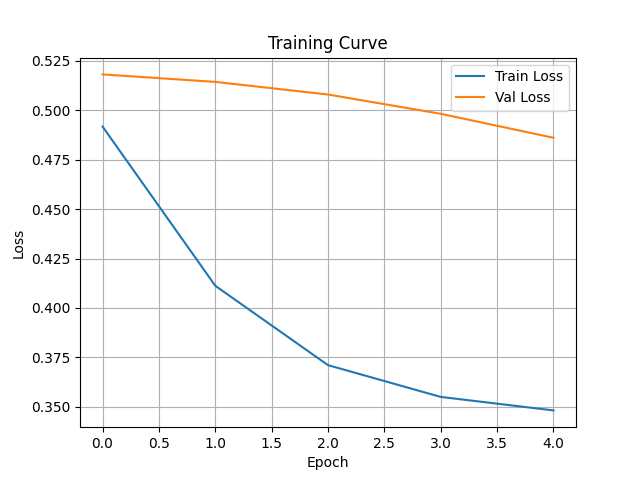
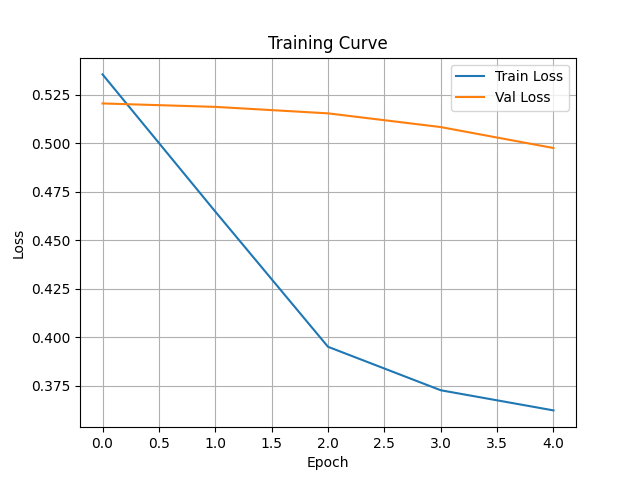
improving sensitivity

diff --git a/train_unetx.py b/train_unetx.py
@@ -11,7 +11,8 @@ from modules.evaluate_unetx import evaluate_full_metrics
 
 # Setup
 device = torch.device("cuda" if torch.cuda.is_available() else "cpu")
-dataset = DicomDataset('data/external_dataset/images', 'data/external_dataset/masks')
+dataset = DicomDataset('dataset/nonannotated/images', 'dataset/annotated/images')
+
 train_len = int(0.8 * len(dataset))
 train_ds, val_ds = random_split(dataset, [train_len, len(dataset) - train_len])
 train_loader = DataLoader(train_ds, batch_size=4, shuffle=True)
